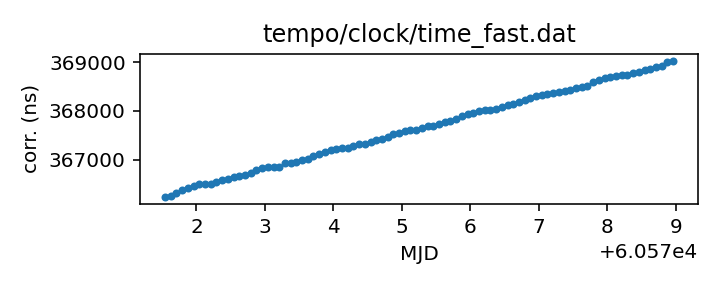
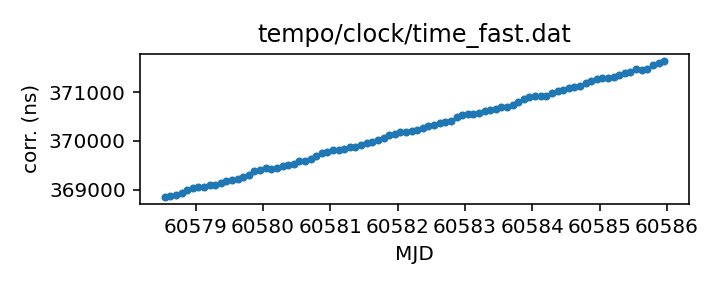
Routine gh-pages update from Github action Fri Oct  4 20:33:52 UTC 2024

diff --git a/status.md b/status.md
@@ -13,18 +13,18 @@ name of each clock file links to a page with more details.
 
 | Name | File | Corrections start | Corrections end | Last check date | Last check result 
 |:--- |:--- | --- | --- | --- |:--- 
-| [GPS to UTC](T2runtime/clock/gps2utc.clk.html) | `T2runtime/clock/gps2utc.clk` | 1993-01-01 MJD 48988.0 | 2024-04-29 MJD 60429.0 | 2024-10-03 | Unchanged 
-| [GPS to UTC (Combined Clock)](T2runtime/clock/gps2utc_cc.clk.html) | `T2runtime/clock/gps2utc_cc.clk` | 1993-01-01 MJD 48988.0 | 2024-04-29 MJD 60429.0 | 2024-10-03 | Unchanged 
-| [GPS to UTC (Corrected)](T2runtime/clock/gps2utc_c0p.clk.html) | `T2runtime/clock/gps2utc_c0p.clk` | 2010-12-29 MJD 55559.0 | 2024-04-29 MJD 60429.0 | 2024-10-03 | Unchanged 
-| [GBT](tempo/clock/time_gbt.dat.html) | `tempo/clock/time_gbt.dat` | 2000-12-31 MJD 51909.5 | 2024-05-18 MJD 60448.5 | 2024-10-03 | **Validation failed** 
+| [GPS to UTC](T2runtime/clock/gps2utc.clk.html) | `T2runtime/clock/gps2utc.clk` | 1993-01-01 MJD 48988.0 | 2024-04-29 MJD 60429.0 | 2024-10-04 | Unchanged 
+| [GPS to UTC (Combined Clock)](T2runtime/clock/gps2utc_cc.clk.html) | `T2runtime/clock/gps2utc_cc.clk` | 1993-01-01 MJD 48988.0 | 2024-04-29 MJD 60429.0 | 2024-10-04 | Unchanged 
+| [GPS to UTC (Corrected)](T2runtime/clock/gps2utc_c0p.clk.html) | `T2runtime/clock/gps2utc_c0p.clk` | 2010-12-29 MJD 55559.0 | 2024-04-29 MJD 60429.0 | 2024-10-04 | Unchanged 
+| [GBT](tempo/clock/time_gbt.dat.html) | `tempo/clock/time_gbt.dat` | 2000-12-31 MJD 51909.5 | 2024-05-18 MJD 60448.5 | 2024-10-04 | **Validation failed** 
 | [GBT (TEMPO2 converted from TEMPO)](T2runtime/clock/gbt2gps.clk.html) | `T2runtime/clock/gbt2gps.clk` | 2000-12-31 MJD 51909.5 | 2024-05-18 MJD 60448.5 | 2024-05-19 | Updated 
-| [Jodrell Bank](T2runtime/clock/jb2gps.clk.html) | `T2runtime/clock/jb2gps.clk` | 2006-10-13 MJD 54021.4 | 2023-12-04 MJD 60282.0 | 2024-09-27 | Unchanged 
-| [Jodrell Bank Roach](T2runtime/clock/jbroach2jb.clk.html) | `T2runtime/clock/jbroach2jb.clk` | 2006-10-13 MJD 54021.4 | 2018-03-20 MJD 58197.6 | 2024-09-27 | Unchanged 
-| [Jodrell Bank DFB](T2runtime/clock/jbdfb2jb.clk.html) | `T2runtime/clock/jbdfb2jb.clk` | 2006-10-13 MJD 54021.4 | 2017-05-11 MJD 57884.0 | 2024-09-27 | Unchanged 
-| [Meerkat (observatory)](T2runtime/clock/mk2utc_observatory.clk.html) | `T2runtime/clock/mk2utc_observatory.clk` | 2019-01-01 MJD 58484.0 | 2024-04-24 MJD 60425.0 | 2024-09-27 | **Failed to download** 
-| [Leap seconds](tempo/clock/leap.sec.html) | `tempo/clock/leap.sec` | 1972-07-01 MJD 41499.0 | 2017-01-01 MJD 57754.0 | 2024-10-03 | Unchanged 
-| [UT1 table](tempo/clock/ut1.dat.html) | `tempo/clock/ut1.dat` | 1973-01-02 MJD 41684.0 | 2025-10-04 MJD 60952.0 | 2024-10-03 | Unchanged 
-| [UT1 table](T2runtime/clock/ut1.dat.html) | `T2runtime/clock/ut1.dat` | 1973-01-02 MJD 41684.0 | 2025-10-04 MJD 60952.0 | 2024-10-03 | Unchanged 
+| [Jodrell Bank](T2runtime/clock/jb2gps.clk.html) | `T2runtime/clock/jb2gps.clk` | 2006-10-13 MJD 54021.4 | 2023-12-04 MJD 60282.0 | 2024-10-04 | Unchanged 
+| [Jodrell Bank Roach](T2runtime/clock/jbroach2jb.clk.html) | `T2runtime/clock/jbroach2jb.clk` | 2006-10-13 MJD 54021.4 | 2018-03-20 MJD 58197.6 | 2024-10-04 | Unchanged 
+| [Jodrell Bank DFB](T2runtime/clock/jbdfb2jb.clk.html) | `T2runtime/clock/jbdfb2jb.clk` | 2006-10-13 MJD 54021.4 | 2017-05-11 MJD 57884.0 | 2024-10-04 | Unchanged 
+| [Meerkat (observatory)](T2runtime/clock/mk2utc_observatory.clk.html) | `T2runtime/clock/mk2utc_observatory.clk` | 2019-01-01 MJD 58484.0 | 2024-04-24 MJD 60425.0 | 2024-10-04 | **Failed to download** 
+| [Leap seconds](tempo/clock/leap.sec.html) | `tempo/clock/leap.sec` | 1972-07-01 MJD 41499.0 | 2017-01-01 MJD 57754.0 | 2024-10-04 | Unchanged 
+| [UT1 table](tempo/clock/ut1.dat.html) | `tempo/clock/ut1.dat` | 1973-01-02 MJD 41684.0 | 2025-10-11 MJD 60959.0 | 2024-10-04 | Updated 
+| [UT1 table](T2runtime/clock/ut1.dat.html) | `T2runtime/clock/ut1.dat` | 1973-01-02 MJD 41684.0 | 2025-10-11 MJD 60959.0 | 2024-10-04 | Updated 
 
 
 
@@ -67,26 +67,26 @@ name of each clock file links to a page with more details.
 
 | Name | File | Corrections start | Corrections end | Last check date | Last check result 
 |:--- |:--- | --- | --- | --- |:--- 
-| [GPS to UTC (TEMPO2)](T2runtime/clock/gps2utc_tempo2.clk.html) | `T2runtime/clock/gps2utc_tempo2.clk` | 1996-03-27 MJD 50169.0 | 2022-10-27 MJD 59879.0 | 2024-09-27 | **Failed to download** 
-| [GBT (TEMPO2)](T2runtime/clock/gbt2gps_tempo2.clk.html) | `T2runtime/clock/gbt2gps_tempo2.clk` | 2000-12-31 MJD 51909.5 | 2020-02-25 MJD 58904.5 | 2024-09-27 | Unchanged 
-| [Jodrell Bank (TEMPO)](tempo/clock/time_jb.dat.html) | `tempo/clock/time_jb.dat` | 2006-10-13 MJD 54021.4 | 2019-05-13 MJD 58616.2 | 2024-09-27 | Unchanged 
-| [VLA](tempo/clock/time_vla.dat.html) | `tempo/clock/time_vla.dat` | 1990-10-27 MJD 48191.2 | 2021-03-07 MJD 59280.5 | 2024-09-27 | Unchanged 
-| [VLA (TEMPO2)](T2runtime/clock/vla2gps.clk.html) | `T2runtime/clock/vla2gps.clk` | 2015-02-01 MJD 57054.6 | 2021-03-07 MJD 59280.5 | 2024-09-27 | Unchanged 
-| [VLA to NIST](T2runtime/clock/vla2nist.clk.html) | `T2runtime/clock/vla2nist.clk` | 1990-10-27 MJD 48191.2 | 1993-11-13 MJD 49304.0 | 2024-09-27 | Unchanged 
-| [FAST](tempo/clock/time_fast.dat.html) | `tempo/clock/time_fast.dat` | 2017-07-27 MJD 57961.0 | 2024-09-25 MJD 60579.0 | 2024-09-27 | Updated 
-| [WSRT](T2runtime/clock/wsrt2gps.clk.html) | `T2runtime/clock/wsrt2gps.clk` | 1999-01-01 MJD 51179.5 | 2015-06-29 MJD 57202.1 | 2024-09-27 | Unchanged 
-| [WSRT (TEMPO)](tempo/clock/time_wsrt.dat.html) | `tempo/clock/time_wsrt.dat` | 1987-07-24 MJD 47000.0 | 2007-12-24 MJD 54458.0 | 2024-09-27 | **Validation failed** 
-| [Parkes](T2runtime/clock/pks2gps.clk.html) | `T2runtime/clock/pks2gps.clk` | 1858-11-17 MJD 0.0 | 2024-08-31 MJD 60553.1 | 2024-09-27 | Unchanged 
-| [Parkes (TEMPO)](tempo/clock/time_pks.dat.html) | `tempo/clock/time_pks.dat` | 1979-05-07 MJD 44000.0 | 2011-07-03 MJD 55745.8 | 2024-09-27 | **Validation failed** 
-| [SRT](T2runtime/clock/srt2gps.clk.html) | `T2runtime/clock/srt2gps.clk` | 2013-03-20 MJD 56371.0 | 2019-12-11 MJD 58828.0 | 2024-09-27 | Unchanged 
-| [Effelsberg](T2runtime/clock/eff2gps.clk.html) | `T2runtime/clock/eff2gps.clk` | 1993-11-29 MJD 49320.0 | 2015-06-22 MJD 57195.5 | 2024-09-27 | Unchanged 
-| [Effelsberg Asterix/PSRix](T2runtime/clock/effix2gps.clk.html) | `T2runtime/clock/effix2gps.clk` | 2011-01-01 MJD 55562.5 | 2021-03-21 MJD 59294.5 | 2024-09-27 | Unchanged 
-| [LEAP](T2runtime/clock/leap2effix.clk.html) | `T2runtime/clock/leap2effix.clk` | 2012-10-29 MJD 56230.0 | 2014-03-04 MJD 56720.0 | 2024-09-27 | Unchanged 
-| [NUPPI](tempo/clock/time_nuppi.dat.html) | `tempo/clock/time_nuppi.dat` | 2005-03-07 MJD 53436.0 | 2015-11-08 MJD 57334.6 | 2024-09-27 | Unchanged 
-| [Meerkat (TEMPO2)](T2runtime/clock/mk2utc.clk.html) | `T2runtime/clock/mk2utc.clk` | 2019-01-01 MJD 58484.0 | 2023-10-18 MJD 60235.9 | 2024-09-27 | Unchanged 
-| [MOST](T2runtime/clock/mo2gps.clk.html) | `T2runtime/clock/mo2gps.clk` | 2003-12-27 MJD 53000.0 | 2018-09-06 MJD 58367.0 | 2024-09-27 | Unchanged 
-| [Nancay to obspm](T2runtime/clock/ncyobs2obspm.clk.html) | `T2runtime/clock/ncyobs2obspm.clk` | 1988-05-18 MJD 47299.6 | 2023-10-27 MJD 60244.0 | 2024-09-27 | Unchanged 
-| [obspm](T2runtime/clock/obspm2gps.clk.html) | `T2runtime/clock/obspm2gps.clk` | 2003-12-01 MJD 52974.0 | 2023-10-27 MJD 60244.0 | 2024-09-27 | Unchanged 
+| [GPS to UTC (TEMPO2)](T2runtime/clock/gps2utc_tempo2.clk.html) | `T2runtime/clock/gps2utc_tempo2.clk` | 1996-03-27 MJD 50169.0 | 2022-10-27 MJD 59879.0 | 2024-10-04 | **Failed to download** 
+| [GBT (TEMPO2)](T2runtime/clock/gbt2gps_tempo2.clk.html) | `T2runtime/clock/gbt2gps_tempo2.clk` | 2000-12-31 MJD 51909.5 | 2020-02-25 MJD 58904.5 | 2024-10-04 | Unchanged 
+| [Jodrell Bank (TEMPO)](tempo/clock/time_jb.dat.html) | `tempo/clock/time_jb.dat` | 2006-10-13 MJD 54021.4 | 2019-05-13 MJD 58616.2 | 2024-10-04 | Unchanged 
+| [VLA](tempo/clock/time_vla.dat.html) | `tempo/clock/time_vla.dat` | 1990-10-27 MJD 48191.2 | 2021-03-07 MJD 59280.5 | 2024-10-04 | Unchanged 
+| [VLA (TEMPO2)](T2runtime/clock/vla2gps.clk.html) | `T2runtime/clock/vla2gps.clk` | 2015-02-01 MJD 57054.6 | 2021-03-07 MJD 59280.5 | 2024-10-04 | Unchanged 
+| [VLA to NIST](T2runtime/clock/vla2nist.clk.html) | `T2runtime/clock/vla2nist.clk` | 1990-10-27 MJD 48191.2 | 1993-11-13 MJD 49304.0 | 2024-10-04 | Unchanged 
+| [FAST](tempo/clock/time_fast.dat.html) | `tempo/clock/time_fast.dat` | 2017-07-27 MJD 57961.0 | 2024-10-02 MJD 60586.0 | 2024-10-04 | Updated 
+| [WSRT](T2runtime/clock/wsrt2gps.clk.html) | `T2runtime/clock/wsrt2gps.clk` | 1999-01-01 MJD 51179.5 | 2015-06-29 MJD 57202.1 | 2024-10-04 | Unchanged 
+| [WSRT (TEMPO)](tempo/clock/time_wsrt.dat.html) | `tempo/clock/time_wsrt.dat` | 1987-07-24 MJD 47000.0 | 2007-12-24 MJD 54458.0 | 2024-10-04 | **Validation failed** 
+| [Parkes](T2runtime/clock/pks2gps.clk.html) | `T2runtime/clock/pks2gps.clk` | 1858-11-17 MJD 0.0 | 2024-08-31 MJD 60553.1 | 2024-10-04 | Unchanged 
+| [Parkes (TEMPO)](tempo/clock/time_pks.dat.html) | `tempo/clock/time_pks.dat` | 1979-05-07 MJD 44000.0 | 2011-07-03 MJD 55745.8 | 2024-10-04 | **Validation failed** 
+| [SRT](T2runtime/clock/srt2gps.clk.html) | `T2runtime/clock/srt2gps.clk` | 2013-03-20 MJD 56371.0 | 2019-12-11 MJD 58828.0 | 2024-10-04 | Unchanged 
+| [Effelsberg](T2runtime/clock/eff2gps.clk.html) | `T2runtime/clock/eff2gps.clk` | 1993-11-29 MJD 49320.0 | 2015-06-22 MJD 57195.5 | 2024-10-04 | Unchanged 
+| [Effelsberg Asterix/PSRix](T2runtime/clock/effix2gps.clk.html) | `T2runtime/clock/effix2gps.clk` | 2011-01-01 MJD 55562.5 | 2021-03-21 MJD 59294.5 | 2024-10-04 | Unchanged 
+| [LEAP](T2runtime/clock/leap2effix.clk.html) | `T2runtime/clock/leap2effix.clk` | 2012-10-29 MJD 56230.0 | 2014-03-04 MJD 56720.0 | 2024-10-04 | Unchanged 
+| [NUPPI](tempo/clock/time_nuppi.dat.html) | `tempo/clock/time_nuppi.dat` | 2005-03-07 MJD 53436.0 | 2015-11-08 MJD 57334.6 | 2024-10-04 | Unchanged 
+| [Meerkat (TEMPO2)](T2runtime/clock/mk2utc.clk.html) | `T2runtime/clock/mk2utc.clk` | 2019-01-01 MJD 58484.0 | 2023-10-18 MJD 60235.9 | 2024-10-04 | Unchanged 
+| [MOST](T2runtime/clock/mo2gps.clk.html) | `T2runtime/clock/mo2gps.clk` | 2003-12-27 MJD 53000.0 | 2018-09-06 MJD 58367.0 | 2024-10-04 | Unchanged 
+| [Nancay to obspm](T2runtime/clock/ncyobs2obspm.clk.html) | `T2runtime/clock/ncyobs2obspm.clk` | 1988-05-18 MJD 47299.6 | 2023-10-27 MJD 60244.0 | 2024-10-04 | Unchanged 
+| [obspm](T2runtime/clock/obspm2gps.clk.html) | `T2runtime/clock/obspm2gps.clk` | 2003-12-01 MJD 52974.0 | 2023-10-27 MJD 60244.0 | 2024-10-04 | Unchanged 
 
 
 ### Further information:

diff --git a/tempo/clock/time_pks.dat.md b/tempo/clock/time_pks.dat.md
@@ -20,12 +20,11 @@ telescopes in the same file, distinguished only by observatory code.
 | Clock file start | 1979-05-07 MJD 44000.0 |
 | Clock file end | 2011-07-03 MJD 55745.8 |
 | Update interval (days) | 7 |
-| Last update attempt | 2024-09-27 |
+| Last update attempt | 2024-10-04 |
 | Last update result | Validation failed |
 
 Log entries from the last few update attempts:
 ```
-2024-07-26 20:31:11.561 - Validation failed: Unable to read new version of tempo/clock/time_pks.dat: Clock file /tmp/astropy-download-1771-ynhf0azv appears to be out of order: 49959.0 > 49958.0
 2024-08-02 20:31:15.123 - Validation failed: Unable to read new version of tempo/clock/time_pks.dat: Clock file /tmp/astropy-download-1884-prw9g2tg appears to be out of order: 49959.0 > 49958.0
 2024-08-09 20:31:11.284 - Validation failed: Unable to read new version of tempo/clock/time_pks.dat: Clock file /tmp/astropy-download-1813-swwbjeka appears to be out of order: 49959.0 > 49958.0
 2024-08-16 20:31:04.370 - Validation failed: Unable to read new version of tempo/clock/time_pks.dat: Clock file /tmp/astropy-download-1819-bg24jb3b appears to be out of order: 49959.0 > 49958.0
@@ -35,6 +34,7 @@ Log entries from the last few update attempts:
 2024-09-13 20:32:08.063 - Validation failed: Unable to read new version of tempo/clock/time_pks.dat: Clock file /tmp/astropy-download-1899-ep23bl8p appears to be out of order: 49959.0 > 49958.0
 2024-09-20 20:33:31.784 - Validation failed: Unable to read new version of tempo/clock/time_pks.dat: Clock file /tmp/astropy-download-1893-m35dbe__ appears to be out of order: 49959.0 > 49958.0
 2024-09-27 20:33:24.548 - Validation failed: Unable to read new version of tempo/clock/time_pks.dat: Clock file /tmp/astropy-download-1803-aho2ayns appears to be out of order: 49959.0 > 49958.0
+2024-10-04 20:33:16.722 - Validation failed: Unable to read new version of tempo/clock/time_pks.dat: Clock file /tmp/astropy-download-1844-zxupk919 appears to be out of order: 49959.0 > 49958.0
 ```
 [Full log](https://raw.githubusercontent.com/ipta/pulsar-clock-corrections/main/log/tempo/clock/time_pks.dat.log)
 

diff --git a/tempo/clock/time_wsrt.dat.md b/tempo/clock/time_wsrt.dat.md
@@ -20,12 +20,11 @@ should be the same information.
 | Clock file start | 1987-07-24 MJD 47000.0 |
 | Clock file end | 2007-12-24 MJD 54458.0 |
 | Update interval (days) | 7 |
-| Last update attempt | 2024-09-27 |
+| Last update attempt | 2024-10-04 |
 | Last update result | Validation failed |
 
 Log entries from the last few update attempts:
 ```
-2024-07-26 20:31:07.591 - Validation failed: Unable to read new version of tempo/clock/time_wsrt.dat: Clock file /tmp/astropy-download-1771-gsrg9qrm appears to be out of order: 53000.05 > 53000.0
 2024-08-02 20:31:12.075 - Validation failed: Unable to read new version of tempo/clock/time_wsrt.dat: Clock file /tmp/astropy-download-1884-lk6lifwj appears to be out of order: 53000.05 > 53000.0
 2024-08-09 20:31:02.876 - Validation failed: Unable to read new version of tempo/clock/time_wsrt.dat: Clock file /tmp/astropy-download-1813-0v7eqv0r appears to be out of order: 53000.05 > 53000.0
 2024-08-16 20:30:59.758 - Validation failed: Unable to read new version of tempo/clock/time_wsrt.dat: Clock file /tmp/astropy-download-1819-rydxnzal appears to be out of order: 53000.05 > 53000.0
@@ -35,6 +34,7 @@ Log entries from the last few update attempts:
 2024-09-13 20:32:03.201 - Validation failed: Unable to read new version of tempo/clock/time_wsrt.dat: Clock file /tmp/astropy-download-1899-5cycg5di appears to be out of order: 53000.05 > 53000.0
 2024-09-20 20:33:26.812 - Validation failed: Unable to read new version of tempo/clock/time_wsrt.dat: Clock file /tmp/astropy-download-1893-omoncdps appears to be out of order: 53000.05 > 53000.0
 2024-09-27 20:33:19.383 - Validation failed: Unable to read new version of tempo/clock/time_wsrt.dat: Clock file /tmp/astropy-download-1803-r_a7vr88 appears to be out of order: 53000.05 > 53000.0
+2024-10-04 20:33:11.870 - Validation failed: Unable to read new version of tempo/clock/time_wsrt.dat: Clock file /tmp/astropy-download-1844-0osy84qv appears to be out of order: 53000.05 > 53000.0
 ```
 [Full log](https://raw.githubusercontent.com/ipta/pulsar-clock-corrections/main/log/tempo/clock/time_wsrt.dat.log)
 

diff --git a/tempo/clock/time_gbt.dat.md b/tempo/clock/time_gbt.dat.md
@@ -33,12 +33,11 @@ If questions arise, contact Ryan S. Lynch <rlynch@nrao.edu>.
 | Clock file start | 2000-12-31 MJD 51909.5 |
 | Clock file end | 2024-05-18 MJD 60448.5 |
 | Update interval (days) | 1 |
-| Last update attempt | 2024-10-03 |
+| Last update attempt | 2024-10-04 |
 | Last update result | Validation failed |
 
 Log entries from the last few update attempts:
 ```
-2024-09-24 20:34:23.325 - Validation failed: New version of tempo/clock/time_gbt.dat clock corrections differ from old version where they overlap in 11 places
 2024-09-25 20:32:21.626 - Validation failed: New version of tempo/clock/time_gbt.dat clock corrections differ from old version where they overlap in 11 places
 2024-09-26 20:33:13.050 - Validation failed: New version of tempo/clock/time_gbt.dat clock corrections differ from old version where they overlap in 11 places
 2024-09-27 20:33:16.005 - Validation failed: New version of tempo/clock/time_gbt.dat clock corrections differ from old version where they overlap in 11 places
@@ -48,6 +47,7 @@ Log entries from the last few update attempts:
 2024-10-01 20:34:12.295 - Validation failed: New version of tempo/clock/time_gbt.dat clock corrections differ from old version where they overlap in 11 places
 2024-10-02 20:36:41.976 - Validation failed: New version of tempo/clock/time_gbt.dat clock corrections differ from old version where they overlap in 11 places
 2024-10-03 20:33:36.662 - Validation failed: New version of tempo/clock/time_gbt.dat clock corrections differ from old version where they overlap in 11 places
+2024-10-04 20:33:08.025 - Validation failed: New version of tempo/clock/time_gbt.dat clock corrections differ from old version where they overlap in 11 places
 ```
 [Full log](https://raw.githubusercontent.com/ipta/pulsar-clock-corrections/main/log/tempo/clock/time_gbt.dat.log)
 

diff --git a/T2runtime/clock/mk2utc_observatory.clk.md b/T2runtime/clock/mk2utc_observatory.clk.md
@@ -21,12 +21,11 @@ If questions arise, contact Ryan Shannon <rshannon@swin.edu.au>
 | Clock file start | 2019-01-01 MJD 58484.0 |
 | Clock file end | 2024-04-24 MJD 60425.0 |
 | Update interval (days) | 7 |
-| Last update attempt | 2024-09-27 |
+| Last update attempt | 2024-10-04 |
 | Last update result | Failed to download |
 
 Log entries from the last few update attempts:
 ```
-2024-07-26 20:31:14.162 - Failed to download: HTTP Error 403: Forbidden
 2024-08-02 20:31:19.452 - Failed to download: HTTP Error 403: Forbidden
 2024-08-09 20:31:14.076 - Failed to download: HTTP Error 403: Forbidden
 2024-08-16 20:31:06.018 - Failed to download: HTTP Error 403: Forbidden
@@ -36,6 +35,7 @@ Log entries from the last few update attempts:
 2024-09-13 20:32:10.289 - Failed to download: HTTP Error 403: Forbidden
 2024-09-20 20:33:35.218 - Validation failed: Unable to read new version of T2runtime/clock/mk2utc_observatory.clk: Header line must start with # and contain two time scales: 'The SARAO archive is currently down. We apologise for the inconvenience. We will remove this alert once the archive is available again.\n'
 2024-09-27 20:33:26.829 - Failed to download: HTTP Error 403: Forbidden
+2024-10-04 20:33:22.425 - Failed to download: HTTP Error 403: Forbidden
 ```
 [Full log](https://raw.githubusercontent.com/ipta/pulsar-clock-corrections/main/log/T2runtime/clock/mk2utc_observatory.clk.log)
 

diff --git a/T2runtime/clock/gps2utc_tempo2.clk.md b/T2runtime/clock/gps2utc_tempo2.clk.md
@@ -27,12 +27,11 @@ are from the column C0').
 | Clock file start | 1996-03-27 MJD 50169.0 |
 | Clock file end | 2022-10-27 MJD 59879.0 |
 | Update interval (days) | 7 |
-| Last update attempt | 2024-09-27 |
+| Last update attempt | 2024-10-04 |
 | Last update result | Failed to download |
 
 Log entries from the last few update attempts:
 ```
-2024-07-26 20:30:27.098 - Failed to download: HTTP Error 404: Not Found
 2024-08-02 20:30:33.662 - Failed to download: HTTP Error 404: Not Found
 2024-08-09 20:30:35.633 - Failed to download: HTTP Error 404: Not Found
 2024-08-16 20:30:32.528 - Failed to download: HTTP Error 404: Not Found
@@ -42,6 +41,7 @@ Log entries from the last few update attempts:
 2024-09-13 20:31:35.404 - Failed to download: HTTP Error 404: Not Found
 2024-09-20 20:32:57.970 - Failed to download: HTTP Error 404: Not Found
 2024-09-27 20:32:51.886 - Failed to download: HTTP Error 404: Not Found
+2024-10-04 20:32:41.616 - Failed to download: HTTP Error 404: Not Found
 ```
 [Full log](https://raw.githubusercontent.com/ipta/pulsar-clock-corrections/main/log/T2runtime/clock/gps2utc_tempo2.clk.log)
 

diff --git a/T2runtime/clock/ut1.dat.md b/T2runtime/clock/ut1.dat.md
@@ -28,14 +28,13 @@ If there are any questions, contact Anne Archibald
 | File | `T2runtime/clock/ut1.dat` |
 | Authority | observatory |
 | File start | 1973-01-02 MJD 41684.0 |
-| File end | 2025-10-04 MJD 60952.0 |
+| File end | 2025-10-11 MJD 60959.0 |
 | Update interval (days) | 0 |
-| Last update attempt | 2024-10-03 |
-| Last update result | Unchanged |
+| Last update attempt | 2024-10-04 |
+| Last update result | Updated |
 
 Log entries from the last few update attempts:
 ```
-2024-09-24 20:34:35.681 - Unchanged
 2024-09-25 20:32:34.282 - Unchanged
 2024-09-26 20:33:21.758 - Updated
 2024-09-27 20:33:36.001 - Unchanged
@@ -45,5 +44,6 @@ Log entries from the last few update attempts:
 2024-10-01 20:34:23.985 - Unchanged
 2024-10-02 20:37:22.650 - Unchanged
 2024-10-03 20:34:26.996 - Unchanged
+2024-10-04 20:33:36.497 - Updated
 ```
 [Full log](https://raw.githubusercontent.com/ipta/pulsar-clock-corrections/main/log/T2runtime/clock/ut1.dat.log)

diff --git a/tempo/clock/ut1.dat.md b/tempo/clock/ut1.dat.md
@@ -28,14 +28,13 @@ If there are any questions, contact Anne Archibald
 | File | `tempo/clock/ut1.dat` |
 | Authority | observatory |
 | File start | 1973-01-02 MJD 41684.0 |
-| File end | 2025-10-04 MJD 60952.0 |
+| File end | 2025-10-11 MJD 60959.0 |
 | Update interval (days) | 0 |
-| Last update attempt | 2024-10-03 |
-| Last update result | Unchanged |
+| Last update attempt | 2024-10-04 |
+| Last update result | Updated |
 
 Log entries from the last few update attempts:
 ```
-2024-09-24 20:34:35.621 - Unchanged
 2024-09-25 20:32:34.221 - Unchanged
 2024-09-26 20:33:21.696 - Updated
 2024-09-27 20:33:35.942 - Unchanged
@@ -45,5 +44,6 @@ Log entries from the last few update attempts:
 2024-10-01 20:34:23.924 - Unchanged
 2024-10-02 20:37:22.590 - Unchanged
 2024-10-03 20:34:26.931 - Unchanged
+2024-10-04 20:33:36.437 - Updated
 ```
 [Full log](https://raw.githubusercontent.com/ipta/pulsar-clock-corrections/main/log/tempo/clock/ut1.dat.log)

diff --git a/tempo/clock/time_fast.dat.md b/tempo/clock/time_fast.dat.md
@@ -14,14 +14,13 @@ This file is pulled from the FAST_ClockFile repository.
 | Format | tempo |
 | Bogus last correction | False |
 | Clock file start | 2017-07-27 MJD 57961.0 |
-| Clock file end | 2024-09-25 MJD 60579.0 |
+| Clock file end | 2024-10-02 MJD 60586.0 |
 | Update interval (days) | 7 |
-| Last update attempt | 2024-09-27 |
+| Last update attempt | 2024-10-04 |
 | Last update result | Updated |
 
 Log entries from the last few update attempts:
 ```
-2024-07-26 20:31:07.124 - Updated
 2024-08-02 20:31:11.541 - Updated
 2024-08-09 20:31:02.403 - Updated
 2024-08-16 20:30:59.399 - Updated
@@ -31,6 +30,7 @@ Log entries from the last few update attempts:
 2024-09-13 20:32:02.724 - Updated
 2024-09-20 20:33:23.772 - Updated
 2024-09-27 20:33:18.896 - Updated
+2024-10-04 20:33:11.391 - Updated
 ```
 [Full log](https://raw.githubusercontent.com/ipta/pulsar-clock-corrections/main/log/tempo/clock/time_fast.dat.log)
 

diff --git a/T2runtime/clock/gps2utc_c0p.clk.md b/T2runtime/clock/gps2utc_c0p.clk.md
@@ -30,12 +30,11 @@ about the BIPM's published corrections, contact <tai@bipm.org>.
 | Clock file start | 2010-12-29 MJD 55559.0 |
 | Clock file end | 2024-04-29 MJD 60429.0 |
 | Update interval (days) | 1 |
-| Last update attempt | 2024-10-03 |
+| Last update attempt | 2024-10-04 |
 | Last update result | Unchanged |
 
 Log entries from the last few update attempts:
 ```
-2024-09-24 20:34:22.316 - Unchanged
 2024-09-25 20:32:20.629 - Unchanged
 2024-09-26 20:33:12.622 - Unchanged
 2024-09-27 20:33:15.507 - Unchanged
@@ -45,6 +44,7 @@ Log entries from the last few update attempts:
 2024-10-01 20:34:10.993 - Unchanged
 2024-10-02 20:36:41.622 - Unchanged
 2024-10-03 20:33:35.804 - Unchanged
+2024-10-04 20:33:07.636 - Unchanged
 ```
 [Full log](https://raw.githubusercontent.com/ipta/pulsar-clock-corrections/main/log/T2runtime/clock/gps2utc_c0p.clk.log)
 

diff --git a/T2runtime/clock/gps2utc_cc.clk.md b/T2runtime/clock/gps2utc_cc.clk.md
@@ -29,12 +29,11 @@ about the BIPM's published corrections, contact <tai@bipm.org>.
 | Clock file start | 1993-01-01 MJD 48988.0 |
 | Clock file end | 2024-04-29 MJD 60429.0 |
 | Update interval (days) | 1 |
-| Last update attempt | 2024-10-03 |
+| Last update attempt | 2024-10-04 |
 | Last update result | Unchanged |
 
 Log entries from the last few update attempts:
 ```
-2024-09-24 20:34:22.304 - Unchanged
 2024-09-25 20:32:20.617 - Unchanged
 2024-09-26 20:33:12.610 - Unchanged
 2024-09-27 20:33:15.496 - Unchanged
@@ -44,6 +43,7 @@ Log entries from the last few update attempts:
 2024-10-01 20:34:10.982 - Unchanged
 2024-10-02 20:36:41.610 - Unchanged
 2024-10-03 20:33:35.791 - Unchanged
+2024-10-04 20:33:07.624 - Unchanged
 ```
 [Full log](https://raw.githubusercontent.com/ipta/pulsar-clock-corrections/main/log/T2runtime/clock/gps2utc_cc.clk.log)
 

diff --git a/T2runtime/clock/gps2utc.clk.md b/T2runtime/clock/gps2utc.clk.md
@@ -32,12 +32,11 @@ about the BIPM's published corrections, contact <tai@bipm.org>.
 | Clock file start | 1993-01-01 MJD 48988.0 |
 | Clock file end | 2024-04-29 MJD 60429.0 |
 | Update interval (days) | 1 |
-| Last update attempt | 2024-10-03 |
+| Last update attempt | 2024-10-04 |
 | Last update result | Unchanged |
 
 Log entries from the last few update attempts:
 ```
-2024-09-24 20:34:22.275 - Unchanged
 2024-09-25 20:32:20.587 - Unchanged
 2024-09-26 20:33:12.582 - Unchanged
 2024-09-27 20:33:15.468 - Unchanged
@@ -47,6 +46,7 @@ Log entries from the last few update attempts:
 2024-10-01 20:34:10.953 - Unchanged
 2024-10-02 20:36:41.582 - Unchanged
 2024-10-03 20:33:35.760 - Unchanged
+2024-10-04 20:33:07.596 - Unchanged
 ```
 [Full log](https://raw.githubusercontent.com/ipta/pulsar-clock-corrections/main/log/T2runtime/clock/gps2utc.clk.log)
 
